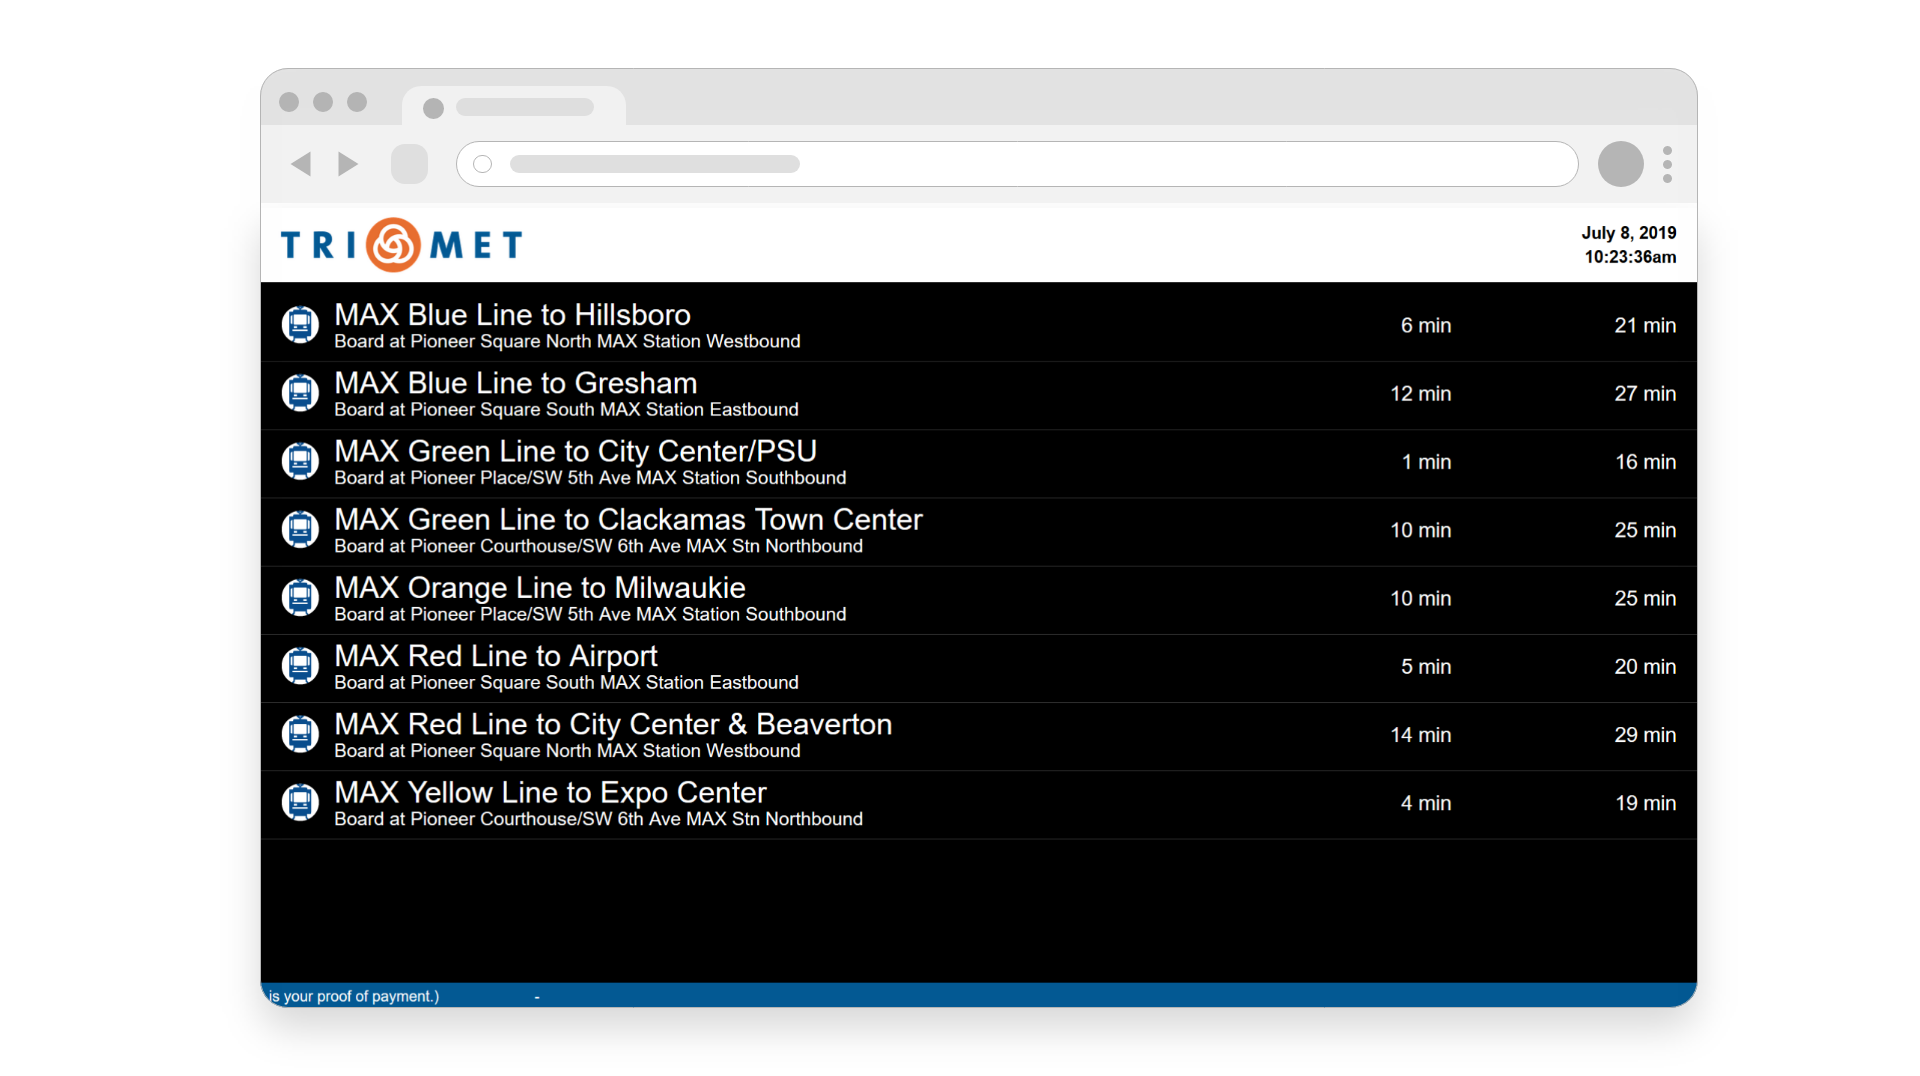
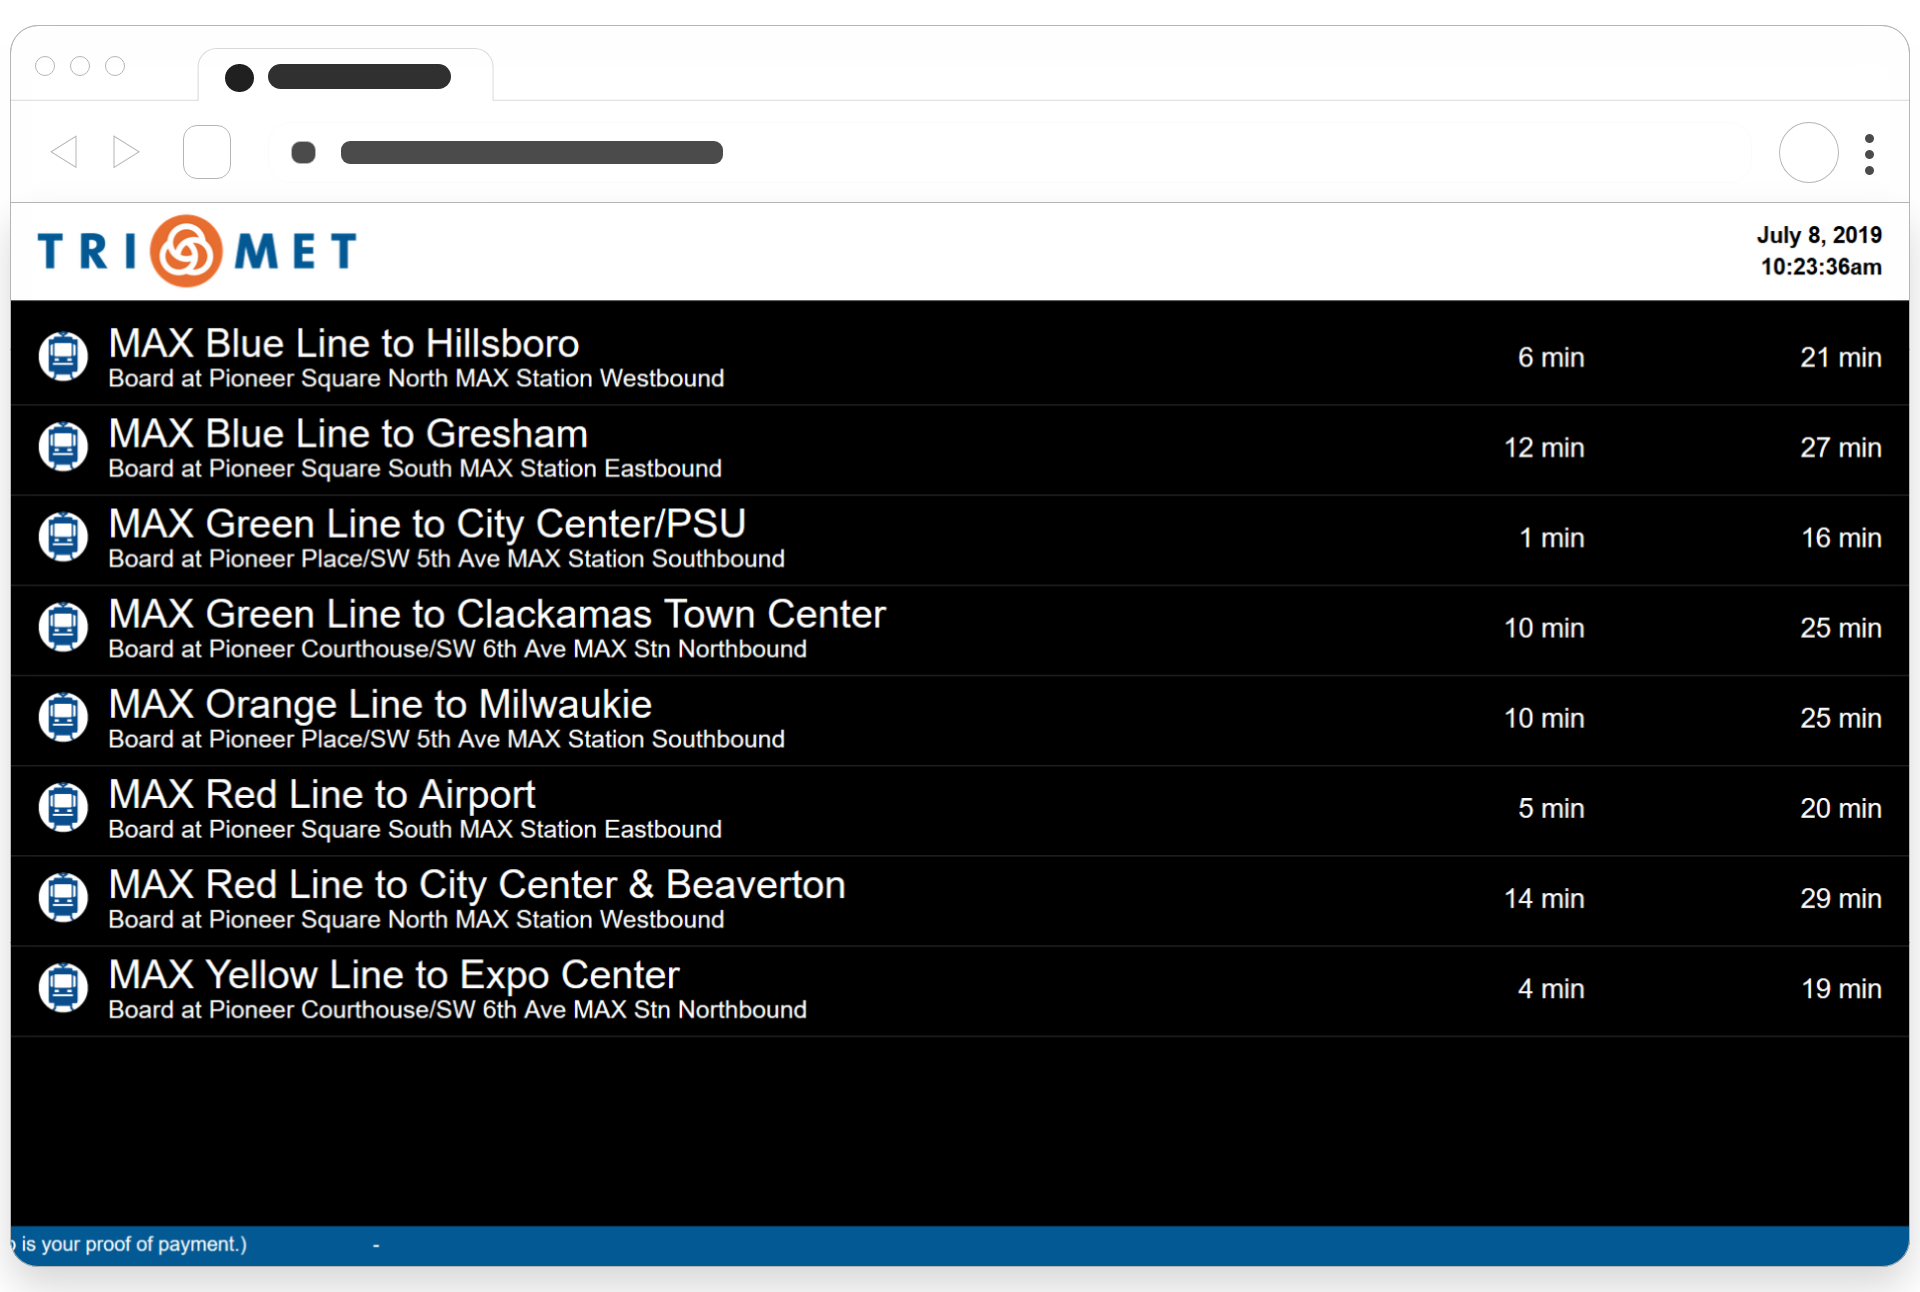
experiment with dark and light browser trimet

diff --git a/src/pages/trimet.js b/src/pages/trimet.js
@@ -264,63 +264,56 @@ return (
           </Col>
         </Row>
         {/* Onsite Transit Tracker */}
-        <Row className='my-5'>
+        <Row className='mt-5'>
           <Col sm={{span:12}} md={{span:8, offset:2}}>
             <h3 id="onsite">New Onsite Transit Tracker</h3>
             <Img className="my-5" fluid={data.trimetShelterImage.childImageSharp.fluid} />
             <p>Improving the UI to arrival information for riders is just straight up fun. It is great to be involved in a design that has such high visibility within the town I live in.</p>
             &nbsp;
             <h4>Problem:</h4>
+            &nbsp;
             <p>With the consideration of upgrading our display screens out in the public, we needed a refresh to the new design. With new infrastructure came new capabilities.</p>
             &nbsp;
-          </Col>
-        </Row>
-        {/* Onsite Transit Tracker old TT Image */}
-        <Row>
-          <Col sm={{span:12}}>
-          <Img className="mt-5" fluid={data.oldTTImage.childImageSharp.fluid} />
-          <p className="mb-5 text-muted text-center small">Current</p>
+            <Img className="my-4" fluid={data.oldTTImage.childImageSharp.fluid} />
           </Col>
         </Row>
         {/* Onsite Transit Tracker continued */}
-        <Row className='mb-5'>
+        <Row className='my-5'>
           <Col sm={{span:12}} md={{span:8, offset:2}}>
           <h5>Research:</h5>
           <p>Questions we asked our riders:</p>
           &nbsp;
           <Row>
             <Col xs={{span:12}} sm={{span:6}}>
-              <div className="p-3 my-3 rounded bg-dark border">
+              <div className="p-3 my-3 rounded border">
                 <h5 className="mb-3"><em>Is the current transit tracker useful?</em></h5>
-                <p className="small"><strong>Purpose of asking:</strong> So we can get a sense of any immediate red flags that people dislike about it. </p>
+                <p className="small text-muted"><strong>Purpose of asking:</strong> So we can get a sense of any immediate red flags that people dislike about it. </p>
                 <p className="mb-0 small"><strong>Results:</strong> Yes, turns out people trust the information as being more reliable than third-party apps.</p>
               </div>
             </Col>
             <Col xs={{span:12}} sm={{span:6}}>
-              <div className="p-3 my-3 rounded bg-dark border">
+              <div className="p-3 my-3 rounded border">
                 <h5 className="mb-3"><em>What other information would they like to know at their stop?</em></h5>
-                <p className="small"><strong>Purpose of asking:</strong> So we can get a sense of what people want to generally know when looking at these screens.</p>
+                <p className="small text-muted"><strong>Purpose of asking:</strong> So we can get a sense of what people want to generally know when looking at these screens.</p>
                 <p className="mb-0 small"><strong>Results:</strong>The top want is, vehicle location and it’s relation to where they are.</p>
               </div>
             </Col>
           </Row>
           &nbsp;
           <h4>Design:</h4>
+          &nbsp;
           <p>With the knowledge we gained by simply asking riders, jump started the design. The two big improvements I wanted to solve was:</p>
           <ul>
             <li>Visibility, increasing contrast and improving the ADA compliance score.</li>
             <li>Context, at a glance users should understand where they are and where their next vehicle is.</li>
             <li>Design, create something elegant.</li>
           </ul>
-          </Col>
-        </Row>
-          {/* Onsite Transit Tracker new TT Image */}
-        <Row>
-          <Col sm={{span:12}}>
+          &nbsp;
           <Img className="mt-5" fluid={data.newTTImage.childImageSharp.fluid} />
           <p className="mb-5 text-muted text-center small">Refresh look</p>
           </Col>
         </Row>
+
         {/* Onsite Transit Tracker continued */}
         <Row className='mb-5'>
           <Col sm={{span:12}} md={{span:8, offset:2}}>
@@ -335,7 +328,7 @@ return (
           </Col>
         </Row>
         {/* Divider */}
-        <Row className="my-5">
+        <Row className="mb-5">
           <Col>
               <div className="border border-secondary border-bottom-0 border-right-0 border-left-0"></div>
           </Col>
